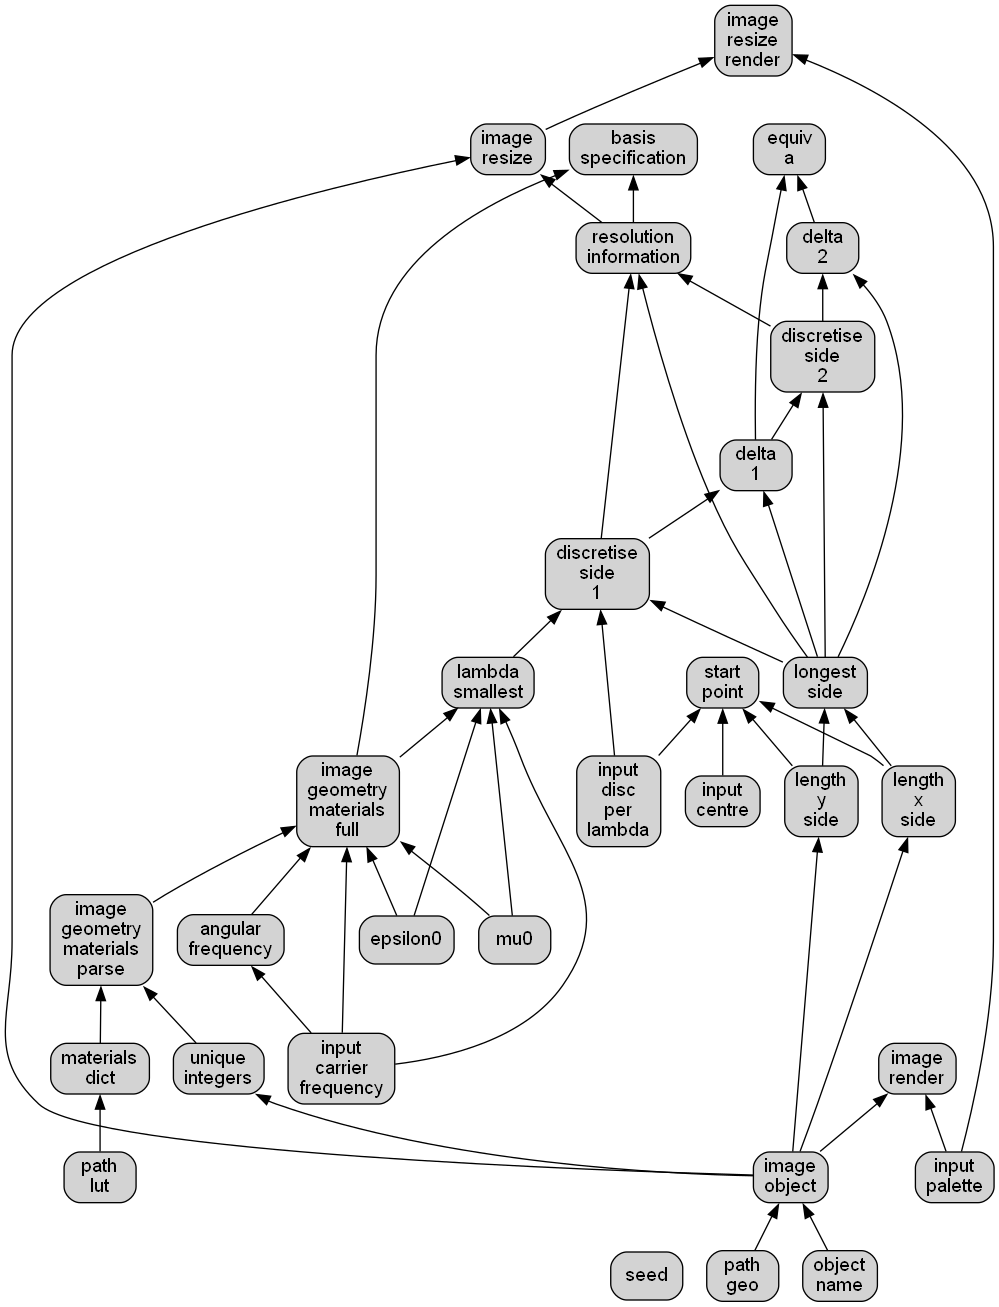
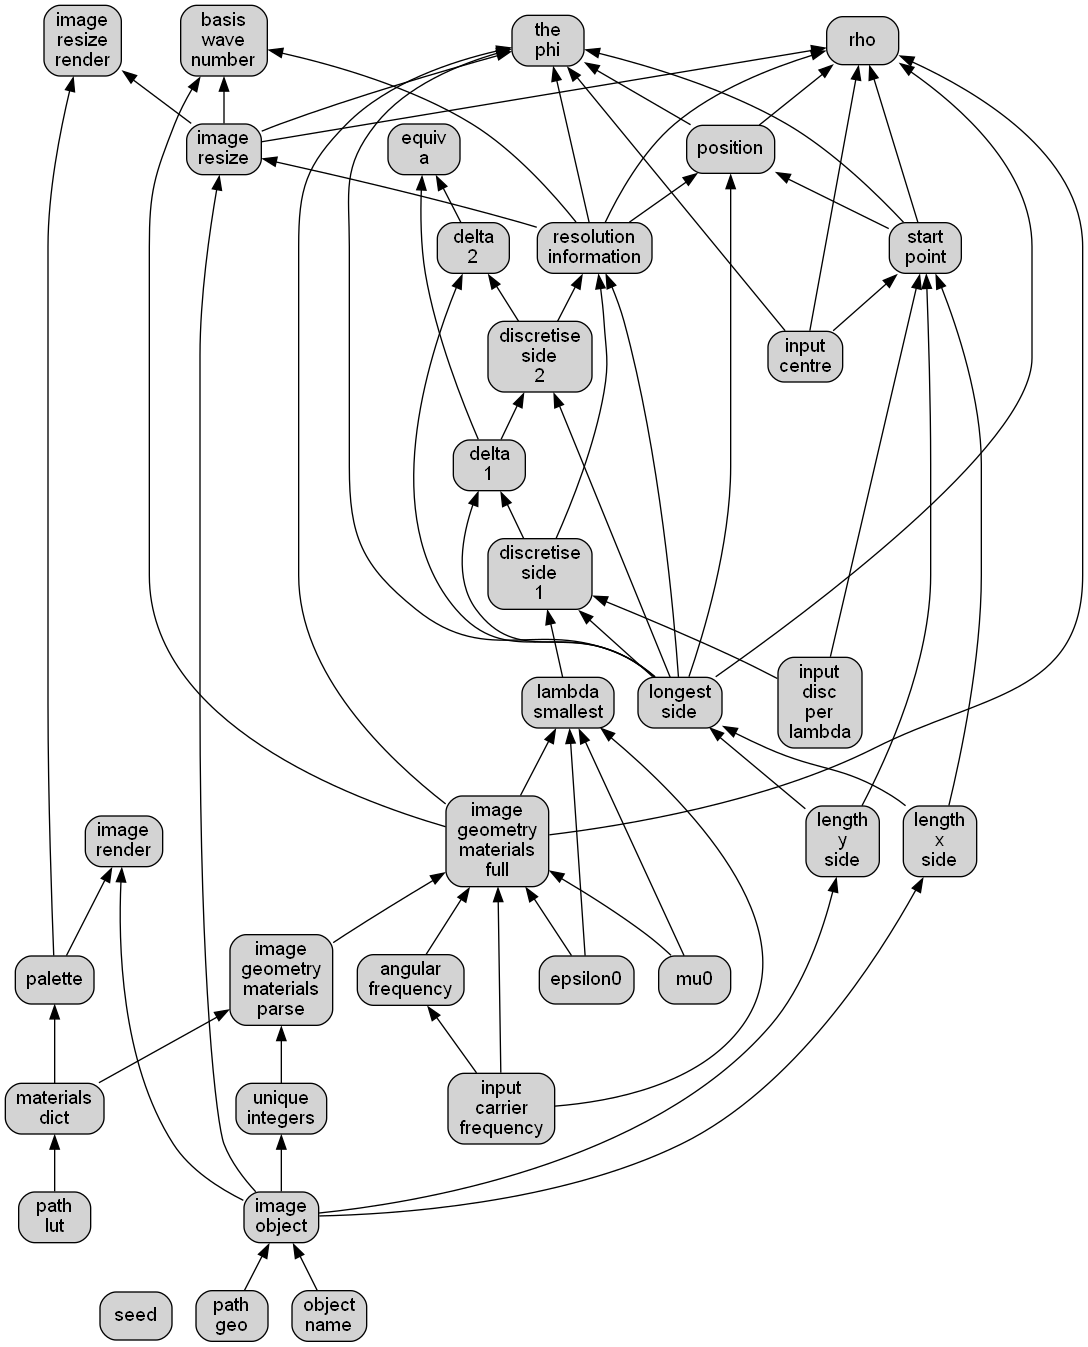
update json hex feeder

diff --git a/lib/scene_gen.py b/lib/scene_gen.py
@@ -46,35 +46,16 @@ def angular_frequency(input_carrier_frequency):
     return 2.0 * math.pi * input_carrier_frequency
 
 
-def input_palette():
-    from PIL import ImageColor
-    # CHECK, this needs to come from the JSON LUT and get iterated over.
-    tuples = [
-        ImageColor.getcolor("#FDFF00", "RGB"),
-        ImageColor.getcolor("#A7A9AB", "RGB"),
-        ImageColor.getcolor("#D08931", "RGB"),
-        ImageColor.getcolor("#B9E8E9", "RGB"),
-        ImageColor.getcolor("#ED774C", "RGB"),
-        ImageColor.getcolor("#EFEFEE", "RGB"),
-        ImageColor.getcolor("#F4F1DB", "RGB"),
-        ImageColor.getcolor("#C09B53", "RGB"),
-        ImageColor.getcolor("#7A5409", "RGB"),
-        ImageColor.getcolor("#909090", "RGB")
-        ]
-    palette = [item for sublist in tuples for item in sublist]
-    return palette
-
-
 def image_object(path_geo, object_name):
     # Generated geometry will be in the form of PNG as it is smaller in memory than CSV or TXT
     from PIL import Image
     return Image.open(path_geo + object_name, mode='r').convert('L')
 
 
-def image_render(image_object, input_palette):
+def image_render(image_object, palette):
     # print(image_object.mode)
     # Gradio may be converting input here before it reaches the operations so bear that in mind.
-    image_object.putpalette(input_palette)
+    image_object.putpalette(palette)
     return image_object
 
 
@@ -97,6 +78,15 @@ def materials_dict(path_lut):
     import pandas as pd
     import json
     return pd.DataFrame(json.load(open(path_lut, 'r')))
+
+
+def palette(materials_dict):
+    from PIL import ImageColor
+    tuples = []
+    for ind in materials_dict.index:
+        tuples.append(ImageColor.getcolor(materials_dict['HEX'][ind], "RGB"))
+    palette_out = [item for sublist in tuples for item in sublist]
+    return palette_out
 
 
 def image_geometry_materials_parse(materials_dict, unique_integers):
@@ -210,10 +200,10 @@ def image_resize(image_object, resolution_information):
     return image_object.resize((resolution_information["length_x_side"], resolution_information["length_y_side"]), Image.Resampling.NEAREST)
 
 
-def image_resize_render(image_resize, input_palette):
+def image_resize_render(image_resize, palette):
     # print(image_object.mode)
     # Gradio may be converting input here before it reaches the operations so bear that in mind.
-    image_resize.putpalette(input_palette)
+    image_resize.putpalette(palette)
     return image_resize
 
 
@@ -249,9 +239,8 @@ def position(resolution_information, longest_side, start_point):
     return position
 
 
-def rho(resolution_information, image_geometry_materials_full, longest_side, start_point, input_centre, image_resize):
+def rho(resolution_information, image_geometry_materials_full, longest_side, start_point, input_centre, image_resize, position):
     import numpy as np
-    import math
     # PRE-POPULATING THE MATRIX WITH THE DOMININANT MATERIAL MIGHT SAVE OPERATIONS
     discretise_M = resolution_information["length_y_side"]
     discretise_N = resolution_information["length_x_side"]
@@ -262,23 +251,21 @@ def rho(resolution_information, image_geometry_materials_full, longest_side, sta
 
     # NOT WORTH VECTORISING ... YET!
     # ct1 -> ct1 + 1 ?
-    position = np.zeros((discretise_M * discretise_N, 1), dtype=np.complex_)
+    # position = np.zeros((discretise_M * discretise_N, 1), dtype=np.complex_)
     rho = np.zeros((discretise_M*discretise_N, 1))
-    the_phi = np.zeros((discretise_M*discretise_N, 1))
     basis_counter = 0
     for ct1 in range(0, discretise_M):
         for ct2 in range(0, discretise_N):
             # basis_counter = (ct1 - 1) * discretise_N + ct2
             basis_counter = ct1 * discretise_N + ct2
             # position(basis_counter, 1) = start_pt + (ct2 - 0.5) * delta_x + 1i * (ct1 - 0.5) * delta_y;
-            position[basis_counter, 0] = start_point + (ct2 + 0.5) * delta_x + 1j * (ct1 + 0.5) * delta_y
+            # position[basis_counter, 0] = start_point + (ct2 + 0.5) * delta_x + 1j * (ct1 + 0.5) * delta_y
             temp_vec = position[basis_counter, 0] - input_centre
             rho[basis_counter, 0] = abs(temp_vec)
-            the_phi[basis_counter, 0] = math.atan2(np.imag(temp_vec), np.real(temp_vec))
     return rho
 
 
-def the_phi(resolution_information, image_geometry_materials_full, longest_side, start_point, input_centre, image_resize):
+def the_phi(resolution_information, image_geometry_materials_full, longest_side, start_point, input_centre, image_resize, position):
     import numpy as np
     import math
     # PRE-POPULATING THE MATRIX WITH THE DOMININANT MATERIAL MIGHT SAVE OPERATIONS
@@ -291,8 +278,7 @@ def the_phi(resolution_information, image_geometry_materials_full, longest_side,
 
     # NOT WORTH VECTORISING ... YET!
     # ct1 -> ct1 + 1 ?
-    position = np.zeros((discretise_M * discretise_N, 1), dtype=np.complex_)
-    rho = np.zeros((discretise_M*discretise_N, 1))
+    # position = np.zeros((discretise_M * discretise_N, 1), dtype=np.complex_)
     the_phi = np.zeros((discretise_M*discretise_N, 1))
     basis_counter = 0
     for ct1 in range(0, discretise_M):
@@ -300,21 +286,22 @@ def the_phi(resolution_information, image_geometry_materials_full, longest_side,
             # basis_counter = (ct1 - 1) * discretise_N + ct2
             basis_counter = ct1 * discretise_N + ct2
             # position(basis_counter, 1) = start_pt + (ct2 - 0.5) * delta_x + 1i * (ct1 - 0.5) * delta_y;
-            position[basis_counter, 0] = start_point + (ct2 + 0.5) * delta_x + 1j * (ct1 + 0.5) * delta_y
+            # position[basis_counter, 0] = start_point + (ct2 + 0.5) * delta_x + 1j * (ct1 + 0.5) * delta_y
             temp_vec = position[basis_counter, 0] - input_centre
-            rho[basis_counter, 0] = abs(temp_vec)
             the_phi[basis_counter, 0] = math.atan2(np.imag(temp_vec), np.real(temp_vec))
     return the_phi
 
 
 def basis_wave_number(resolution_information, image_geometry_materials_full, image_resize):
     import numpy as np
-    # NOT WORTH VECTORISING ... YET!
-    # ct1 -> ct1 + 1 ?
     discretise_M = resolution_information["length_y_side"]
     discretise_N = resolution_information["length_x_side"]
     image_resize = np.array(image_resize)
+
     prepop_fill = image_geometry_materials_full[image_geometry_materials_full["counts_elements"] == image_geometry_materials_full["counts_elements"].max()]['kr'].iloc[0]
+
+    # NOT WORTH VECTORISING ... YET!
+    # ct1 -> ct1 + 1 ?
     basis_wave_number = np.full((discretise_M * discretise_N, 1), prepop_fill)
     basis_counter = 0
     for ct1 in range(0, discretise_M):
@@ -324,3 +311,5 @@ def basis_wave_number(resolution_information, image_geometry_materials_full, ima
             temp_cell = image_geometry_materials_full[image_geometry_materials_full['uint8'] == image_resize[ct1, ct2]]['kr']
             basis_wave_number[basis_counter, 0] = temp_cell.iloc[0]
     return basis_wave_number
+
+

diff --git a/main.py b/main.py
@@ -47,7 +47,7 @@ def composer_call():
             scene_gen.image_geometry_materials_parse,
             scene_gen.image_geometry_materials_full,
             scene_gen.lambda_smallest,
-            scene_gen.input_palette,
+            scene_gen.palette,
             scene_gen.image_render,
             scene_gen.length_x_side,
             scene_gen.length_y_side,
@@ -120,6 +120,7 @@ with gr.Blocks(title="SolverEMF", analytics_enabled=True) as demo:
                 diagraph_image.style(height=800)
             # with gr.Column():
                 # gr.Textbox(value=composer.unique_integers, label="composer.unique_integers")
+                gr.Dataframe(value=composer.materials_dict, label="composer.materials_dict")
                 # gr.Number(value=composer.epsilon0, label="composer.epsilon0()")
                 # gr.Number(value=composer.mu0, label="composer.mu0()")
                 # gr.Number(value=composer.input_carrier_frequency, label="composer.input_carrier_frequency()")
@@ -127,28 +128,27 @@ with gr.Blocks(title="SolverEMF", analytics_enabled=True) as demo:
                 # gr.Number(value=composer.angular_frequency, label="composer.angular_frequency()")
                 # gr.Textbox(value=composer.image_object, label="composer.image_object")
                 # gr.Image(value=composer.image_object, label="composer.image_object", type='pil')
-                # gr.Textbox(value=composer.input_palette, label="composer.input_palette")
-                # gr.Image(value=composer.image_render, label="composer.image_render", type='pil')
+                gr.Textbox(value=composer.palette, label="composer.palette")
+                # gr.Image(value=composer.image_render, label="composer.image_render")
                 # gr.Number(value=composer.length_x_side, label="composer.length_x_side()")
                 # gr.Number(value=composer.length_y_side, label="composer.length_y_side()")
+                # gr.Number(value=composer.lambda_smallest, label="composer.lambda_smallest()")
                 # gr.Textbox(value=composer.longest_side, label="composer.longest_side")
                 # gr.Number(value=composer.discretise_side_1, label="composer.discretise_side_1()")
                 # gr.Number(value=composer.delta_1, label="composer.delta_1()")
                 # gr.Number(value=composer.discretise_side_2, label="composer.discretise_side_2()")
                 # gr.Number(value=composer.delta_2, label="composer.delta_2()")
                 # gr.Number(value=composer.equiv_a, label="composer.equiv_a()")
-                # gr.Textbox(value=composer.resolution_information, label="composer.resolution_information()")
+                # gr.Dataframe(value=composer.resolution_information(), label="composer.resolution_information()", type="numpy", datatype="number")
                 # gr.Image(value=composer.image_resize, label="composer.image_resize()")
-                # gr.Image(value=composer.image_resize_render, label="composer.image_resize_render()")
-                # gr.Textbox(value=composer.input_centre, label="composer.input_centre()")
-                # gr.Textbox(value=composer.start_point, label="composer.start_point()")
-                # gr.Textbox(value=composer.image_geometry_materials_full, label="composer.image_geometry_materials_full()")
+                gr.Image(value=composer.image_resize_render, label="composer.image_resize_render()")
+                gr.Textbox(value=composer.input_centre, label="composer.input_centre()")
+                gr.Textbox(value=composer.start_point, label="composer.start_point()")
+                gr.Textbox(value=composer.image_geometry_materials_full, label="composer.image_geometry_materials_full()")
                 gr.Textbox(value=composer.position, label="composer.position()")
                 gr.Textbox(value=composer.rho, label="composer.rho()")
                 gr.Textbox(value=composer.the_phi, label="composer.the_phi()")
                 gr.Textbox(value=composer.basis_wave_number, label="composer.basis_wave_number()")
-                # gr.Number(value=composer.basis_specification(), label="composer.basis_specification()")
-                # gr.Number(value=composer.basis_specification()[0], label="composer.basis_specification()[0]")
     # SOLVER: END
     #
     #
